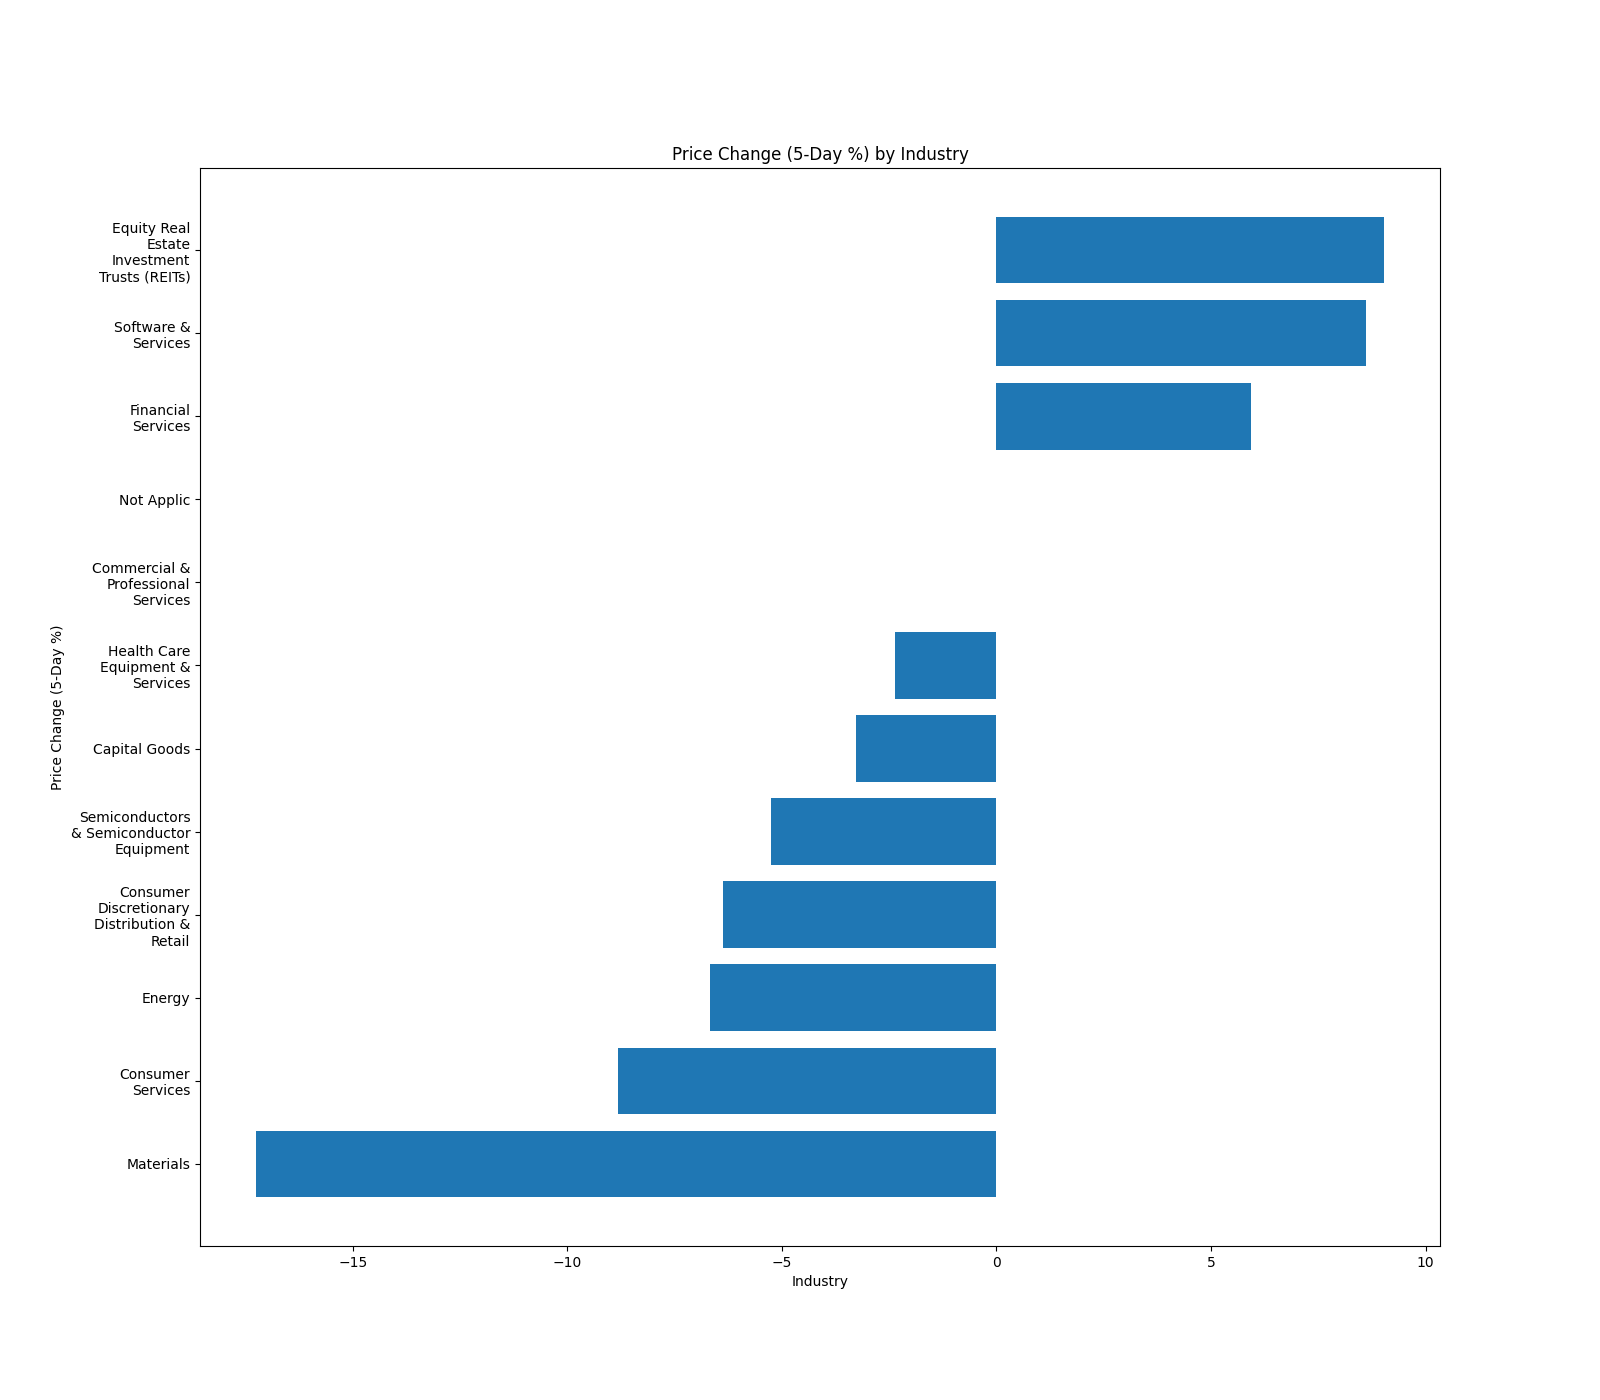
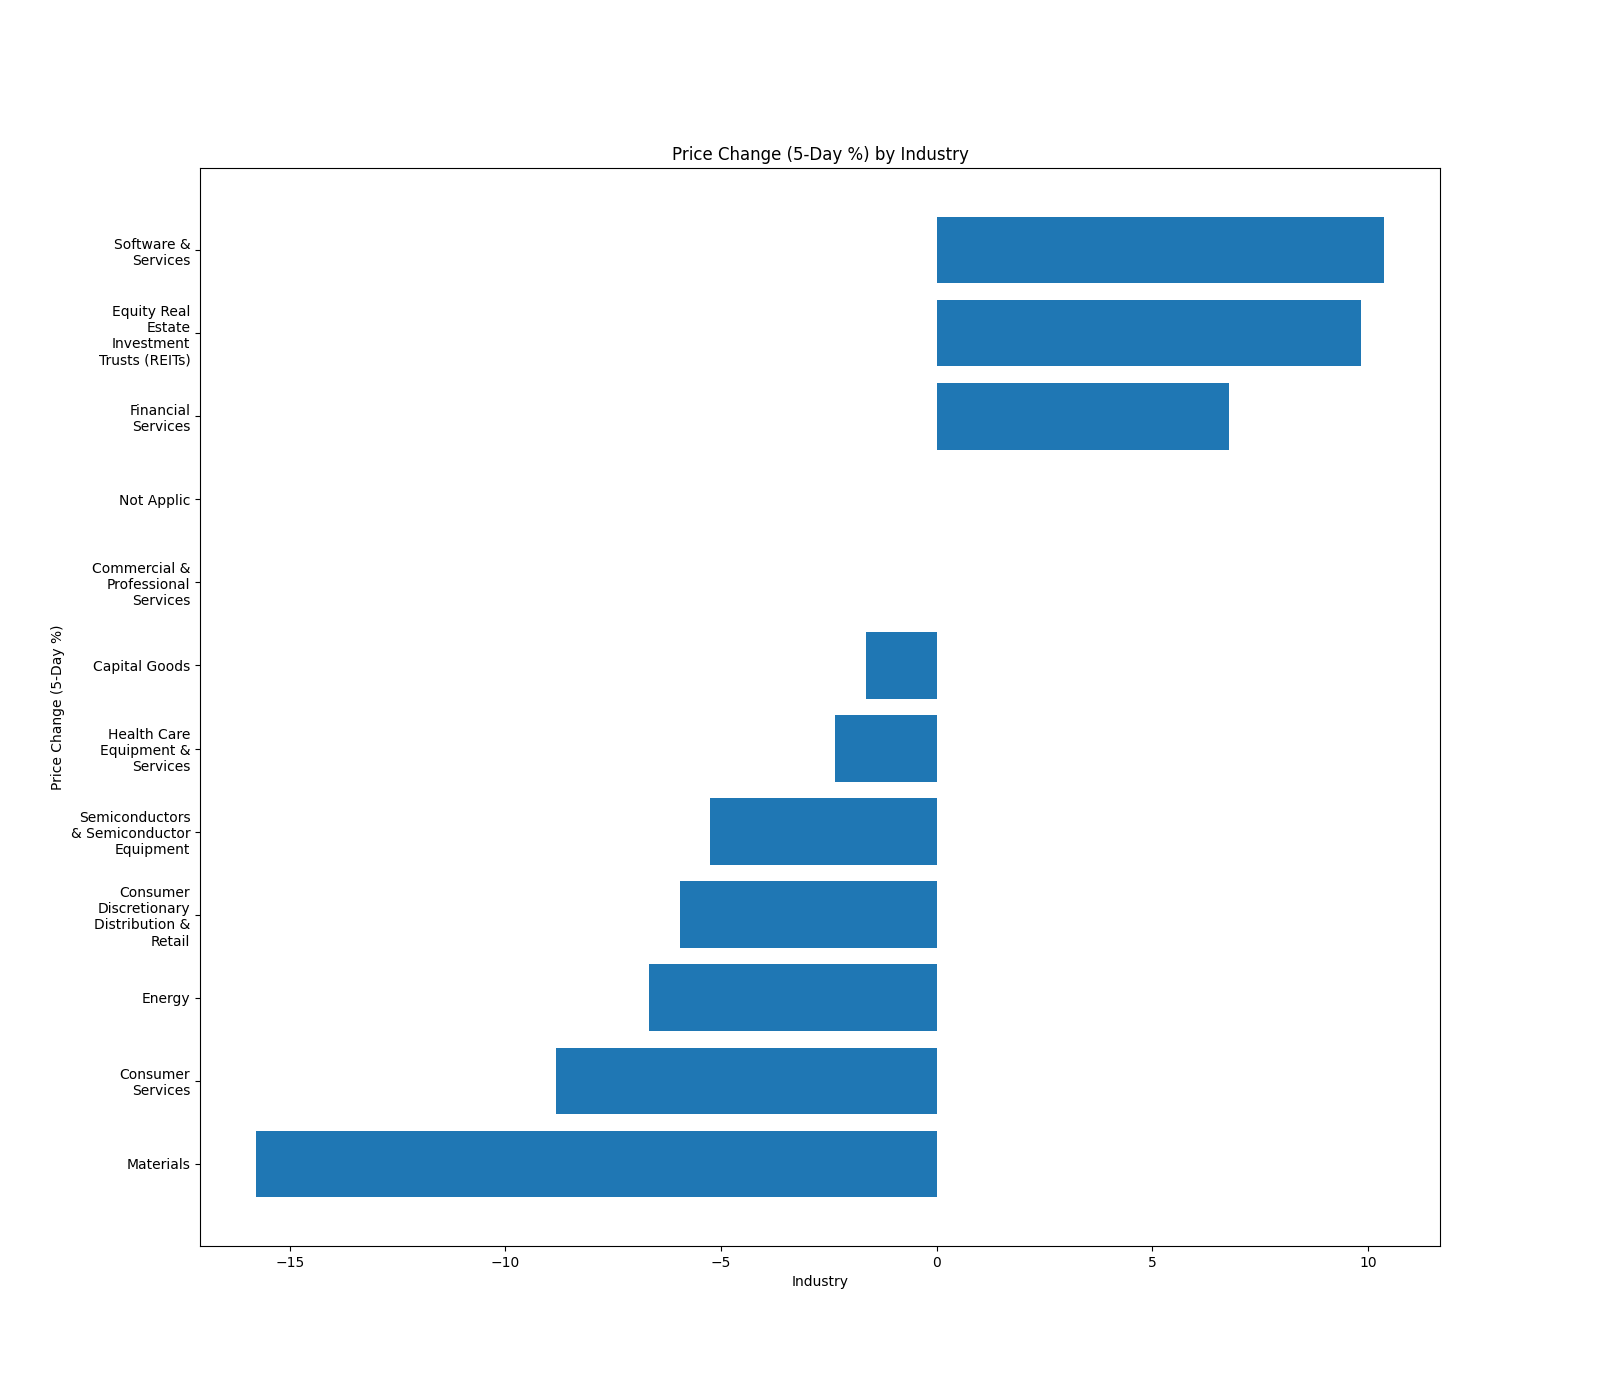
Adding main.py for tracking

diff --git a/main.py b/main.py
@@ -1,0 +1,79 @@
+import pandas as pd
+import numpy as np
+import matplotlib.pyplot as plt
+import textwrap
+import requests
+
+graphs_out = "./out/trends/"
+
+def main():
+    # Fetch the data from the API
+    response = requests.get(
+        url = "https://asx.api.markitdigital.com/asx-research/1.0/companies/directory"
+    )
+
+    # Load the JSON data into a Pandas DataFrame
+    if response.status_code == 200:
+        df = pd.DataFrame(response.json()['data']['items'])
+    else: 
+        raise Exception(f"Request to ASX Company Directory failed with Status Code: {response.status_code}")
+
+    # Ensure correct data types
+    df['marketCap']                     = pd.to_numeric(df['marketCap'], errors='coerce')
+    df['priceChangeFiveDayPercent']     = pd.to_numeric(df['priceChangeFiveDayPercent'], errors='coerce')
+    df['industry']                      = df['industry'].astype(str)
+    df['symbol']                        = df['symbol'].astype(str)
+
+    # Market Cap by Industry
+    mc_ind = df.groupby('industry')['marketCap'].sum().reset_index().sort_values(by='marketCap', ascending=True)
+    mc_stk = df.sort_values(by='marketCap', ascending=True)
+
+    # Price Change by Industry
+    pc_ind = df.groupby('industry')['priceChangeFiveDayPercent'].sum().reset_index().sort_values(by='priceChangeFiveDayPercent', ascending=True)
+    pc_stk = df.sort_values(by='priceChangeFiveDayPercent', ascending=True)
+
+    # Market Cap by Industry Bar Chart
+    labels = [textwrap.fill(label, 15) for label in mc_ind['industry']] 
+    plt.figure(figsize=(16,14)) 
+    plt.barh(mc_ind['industry'], mc_ind['marketCap'] / 1000000)
+    plt.ylabel('Industry')
+    plt.yticks(range(len(labels)), labels)  # Set wrapped labels
+    plt.xlabel('Market Cap (millions)')
+    start, end = plt.gca().get_xlim()
+    plt.gca().xaxis.set_ticks(np.arange(start, end, 200))
+    plt.title('Market Cap by Industry')
+    plt.savefig(graphs_out + 'market-cap-by-industry.png')
+
+    # Market Cap by Stock Horizontal Bar Chart
+    plt.figure(figsize=(16,8))
+    plt.barh(mc_stk['symbol'], mc_stk['marketCap'] / 1000000)
+    plt.xlabel('Market Cap (millions)')
+    start, end = plt.gca().get_xlim()
+    plt.gca().xaxis.set_ticks(np.arange(start, end, 200))
+    plt.ylabel('Stock Symbol')
+    plt.title('Market Cap by Stock')
+    plt.savefig(graphs_out + 'market-cap-by-stock.png')
+
+    # Price Change by Industry Bar Chart
+    labels = [textwrap.fill(label, 15) for label in pc_ind['industry']] 
+    plt.figure(figsize=(16,14))
+    plt.barh(pc_ind['industry'], pc_ind['priceChangeFiveDayPercent'])
+    plt.xlabel('Industry')
+    plt.yticks(range(len(labels)), labels)  # Set wrapped labels
+    plt.ylabel('Price Change (5-Day %)')
+    plt.title('Price Change (5-Day %) by Industry')
+    plt.savefig(graphs_out + 'price-change-5-day-percent-by-industry.png')
+
+    # Price Change by Stock Horizontal Bar Chart
+    plt.figure(figsize=(16,8)) 
+    plt.barh(pc_stk['symbol'], pc_stk['priceChangeFiveDayPercent'])
+    plt.xlabel('Price Change (5-Day %)')
+    plt.ylabel('Stock Symbol')
+    plt.title('Price Change (5-Day %) by Stock')
+    plt.savefig(graphs_out + 'price-change-5-day-percent-by-stock.png')
+
+    # Show all charts
+    plt.show()
+
+if __name__ == "__main__":
+    main()
